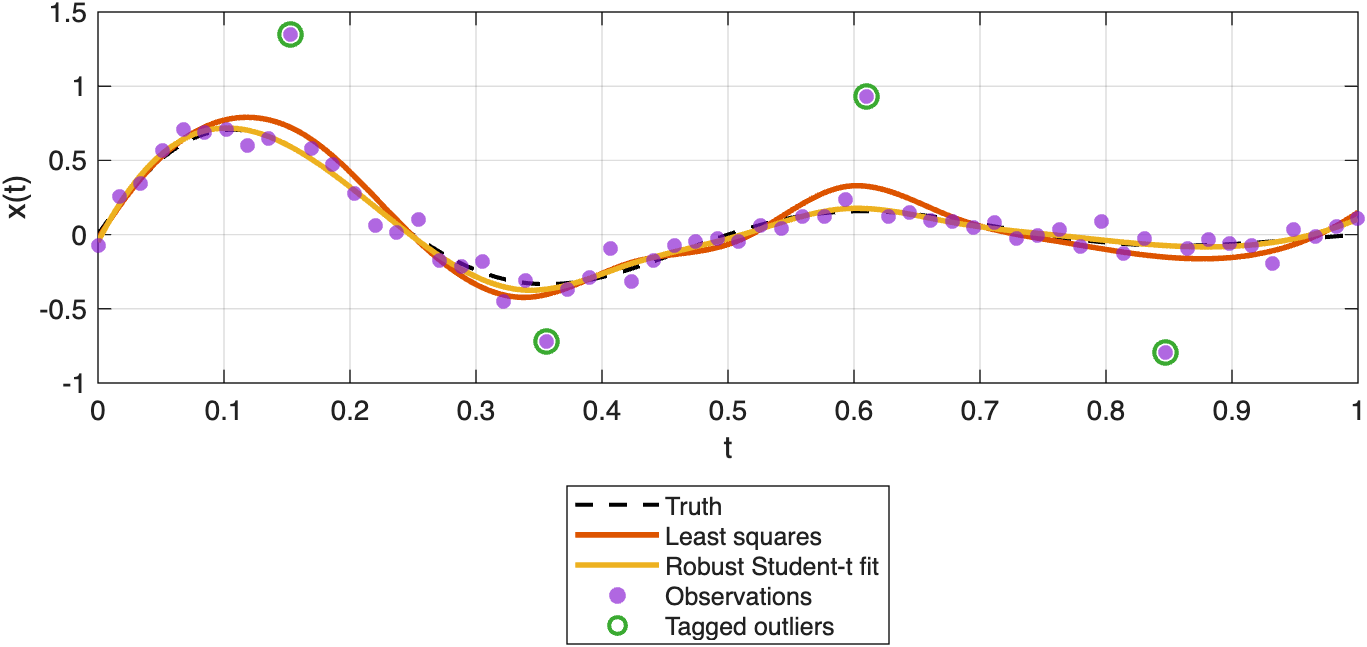
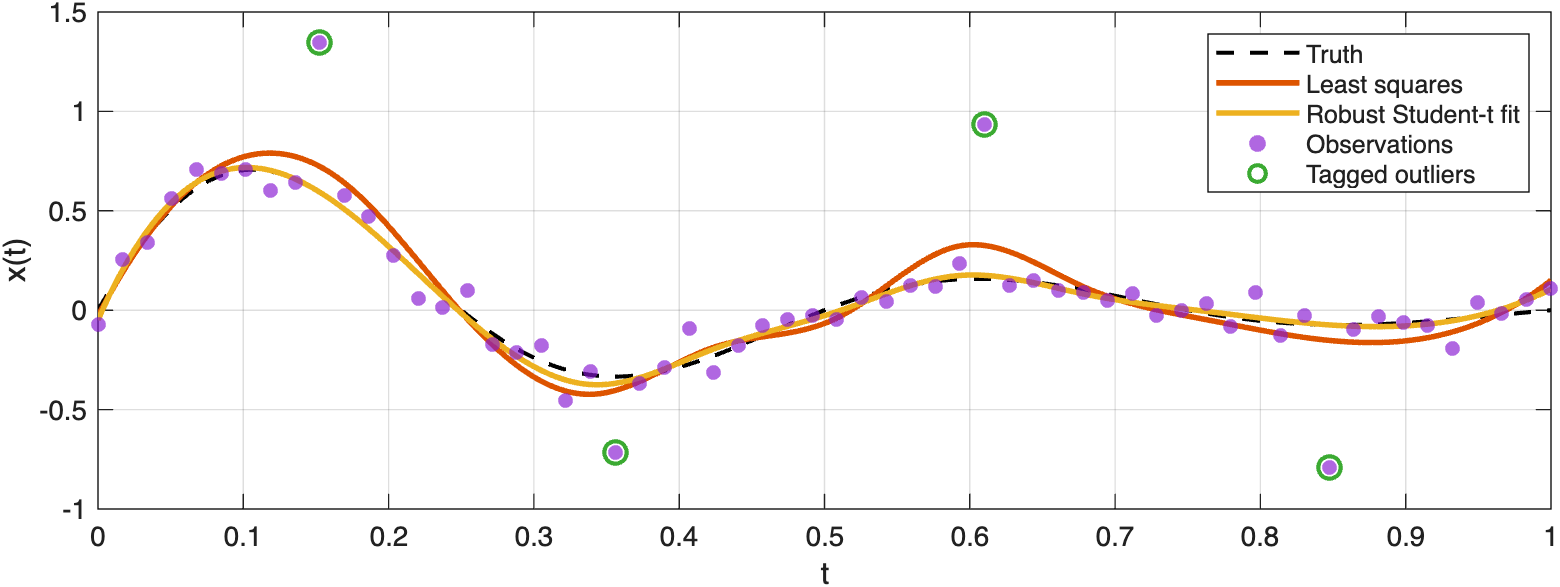
Tighten homepage and tutorial figure

diff --git a/Examples/Tutorials/RobustSplineFitting.m b/Examples/Tutorials/RobustSplineFitting.m
@@ -32,7 +32,7 @@ xTrueDense = exp(-3*tDense).*sin(4*pi*tDense);
 xLeastSquares = leastSquaresFit(tDense);
 xRobust = robustFit(tDense);
 
-figure(Position=[100 100 780 360])
+figure(Position=[100 100 900 300])
 plot(tDense, xTrueDense, "k--", LineWidth=1.5), hold on
 plot(tDense, xLeastSquares, LineWidth=2)
 plot(tDense, xRobust, LineWidth=2)
@@ -41,7 +41,7 @@ scatter(t(outlierIndex), xObs(outlierIndex), 65, "o", LineWidth=1.5)
 xlabel("t")
 ylabel("x(t)")
 legend("Truth", "Least squares", "Robust Student-t fit", "Observations", "Tagged outliers", ...
-    Location="southoutside")
+    Location="northeast")
 grid on
 if exist("tutorialFigureCapture", "var") && isa(tutorialFigureCapture, "function_handle"), tutorialFigureCapture("robust-fit-comparison", Caption="A Student-t fit stays closer to the underlying signal when several observations are large outliers."); end
 

diff --git a/docs/tutorials/robust-spline-fitting.md b/docs/tutorials/robust-spline-fitting.md
@@ -43,7 +43,7 @@ xTrueDense = exp(-3*tDense).*sin(4*pi*tDense);
 xLeastSquares = leastSquaresFit(tDense);
 xRobust = robustFit(tDense);
 
-figure(Position=[100 100 780 360])
+figure(Position=[100 100 900 300])
 plot(tDense, xTrueDense, "k--", LineWidth=1.5), hold on
 plot(tDense, xLeastSquares, LineWidth=2)
 plot(tDense, xRobust, LineWidth=2)
@@ -52,7 +52,7 @@ scatter(t(outlierIndex), xObs(outlierIndex), 65, "o", LineWidth=1.5)
 xlabel("t")
 ylabel("x(t)")
 legend("Truth", "Least squares", "Robust Student-t fit", "Observations", "Tagged outliers", ...
-    Location="southoutside")
+    Location="northeast")
 grid on
 ```
 

diff --git a/Documentation/WebsiteDocumentation/index.md b/Documentation/WebsiteDocumentation/index.md
@@ -30,9 +30,3 @@ spline framework for robust fitting and constraints.
 | [`ConstrainedSpline`](classes/constrainedspline) | noisy-data fitting, robust fitting, and local or global constraints |
 | [`BSpline`](classes/bspline) | low-level one-dimensional spline basis construction and analysis |
 | [`TensorSpline`](classes/tensorspline) | low-level tensor-product spline construction and analysis |
-
-## One Distinction
-
-In more than one dimension, `InterpolatingSpline` performs exact
-interpolation on rectilinear tensor grids, while `ConstrainedSpline` fits
-tensor-product models to scattered or gridded observations.

diff --git a/docs/index.md b/docs/index.md
@@ -30,9 +30,3 @@ spline framework for robust fitting and constraints.
 | [`ConstrainedSpline`](classes/constrainedspline) | noisy-data fitting, robust fitting, and local or global constraints |
 | [`BSpline`](classes/bspline) | low-level one-dimensional spline basis construction and analysis |
 | [`TensorSpline`](classes/tensorspline) | low-level tensor-product spline construction and analysis |
-
-## One Distinction
-
-In more than one dimension, `InterpolatingSpline` performs exact
-interpolation on rectilinear tensor grids, while `ConstrainedSpline` fits
-tensor-product models to scattered or gridded observations.
